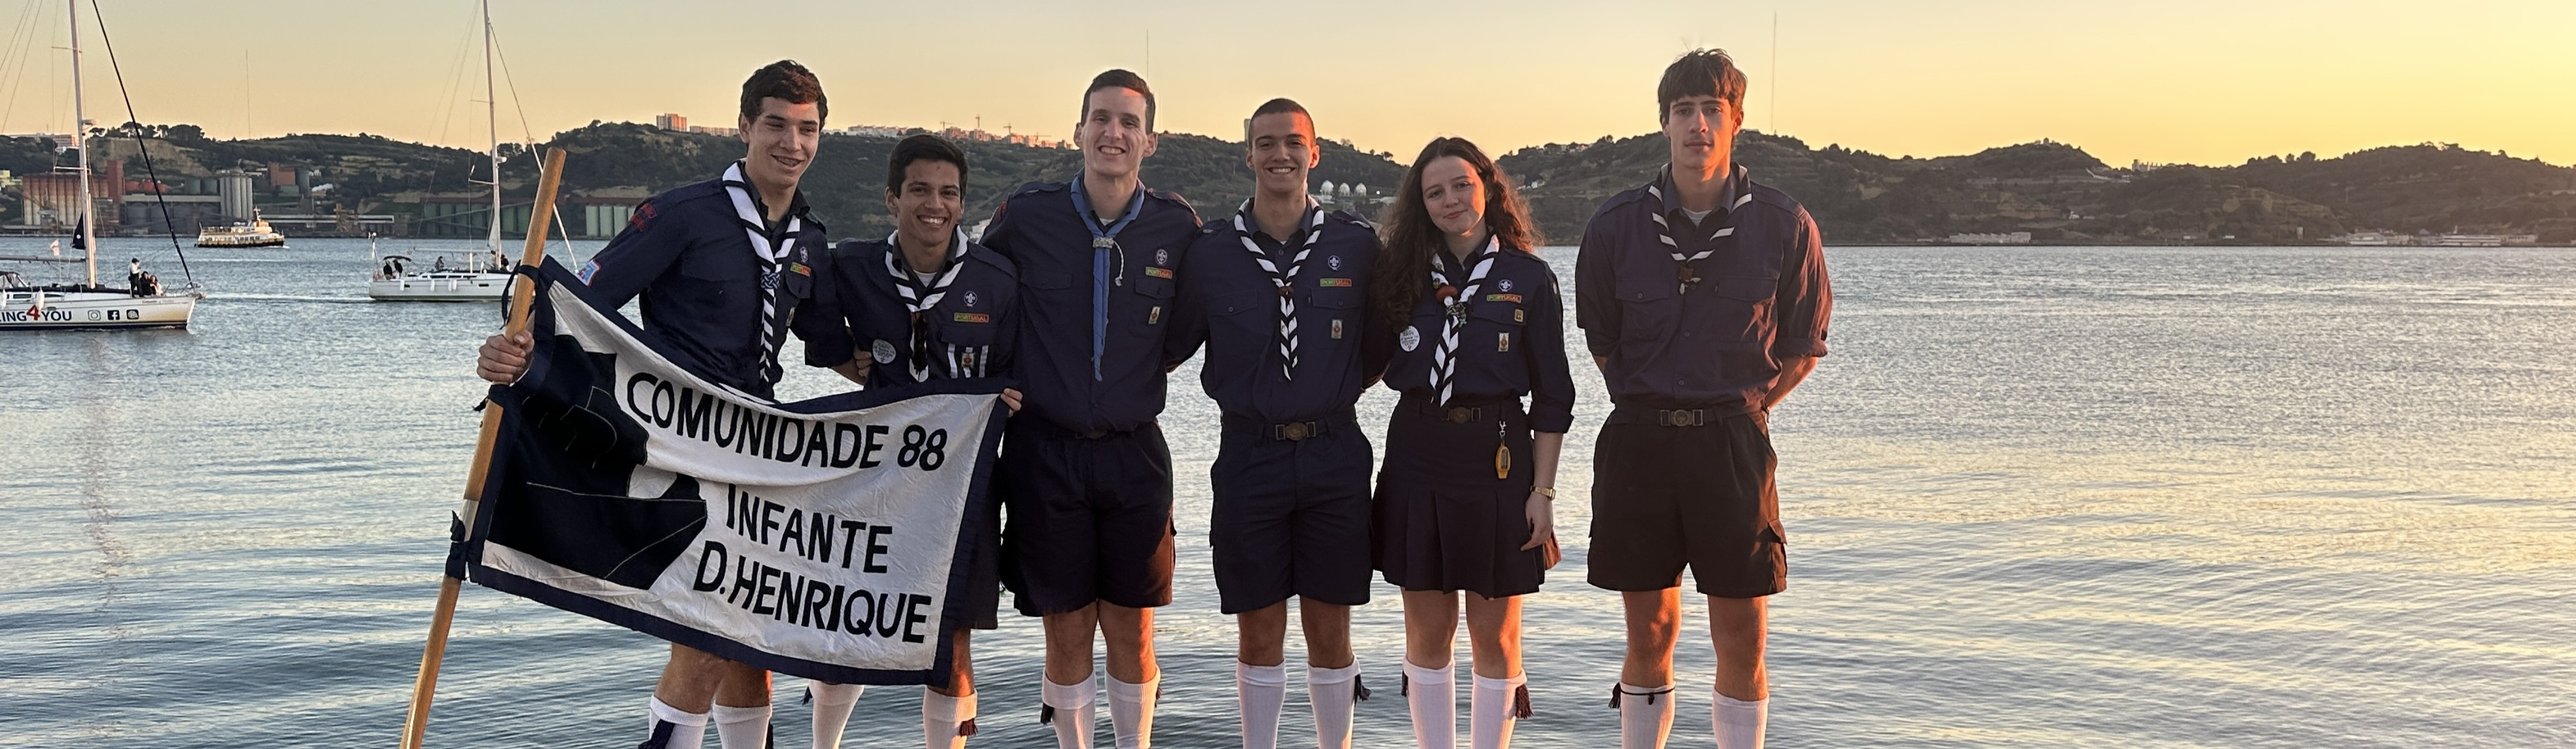
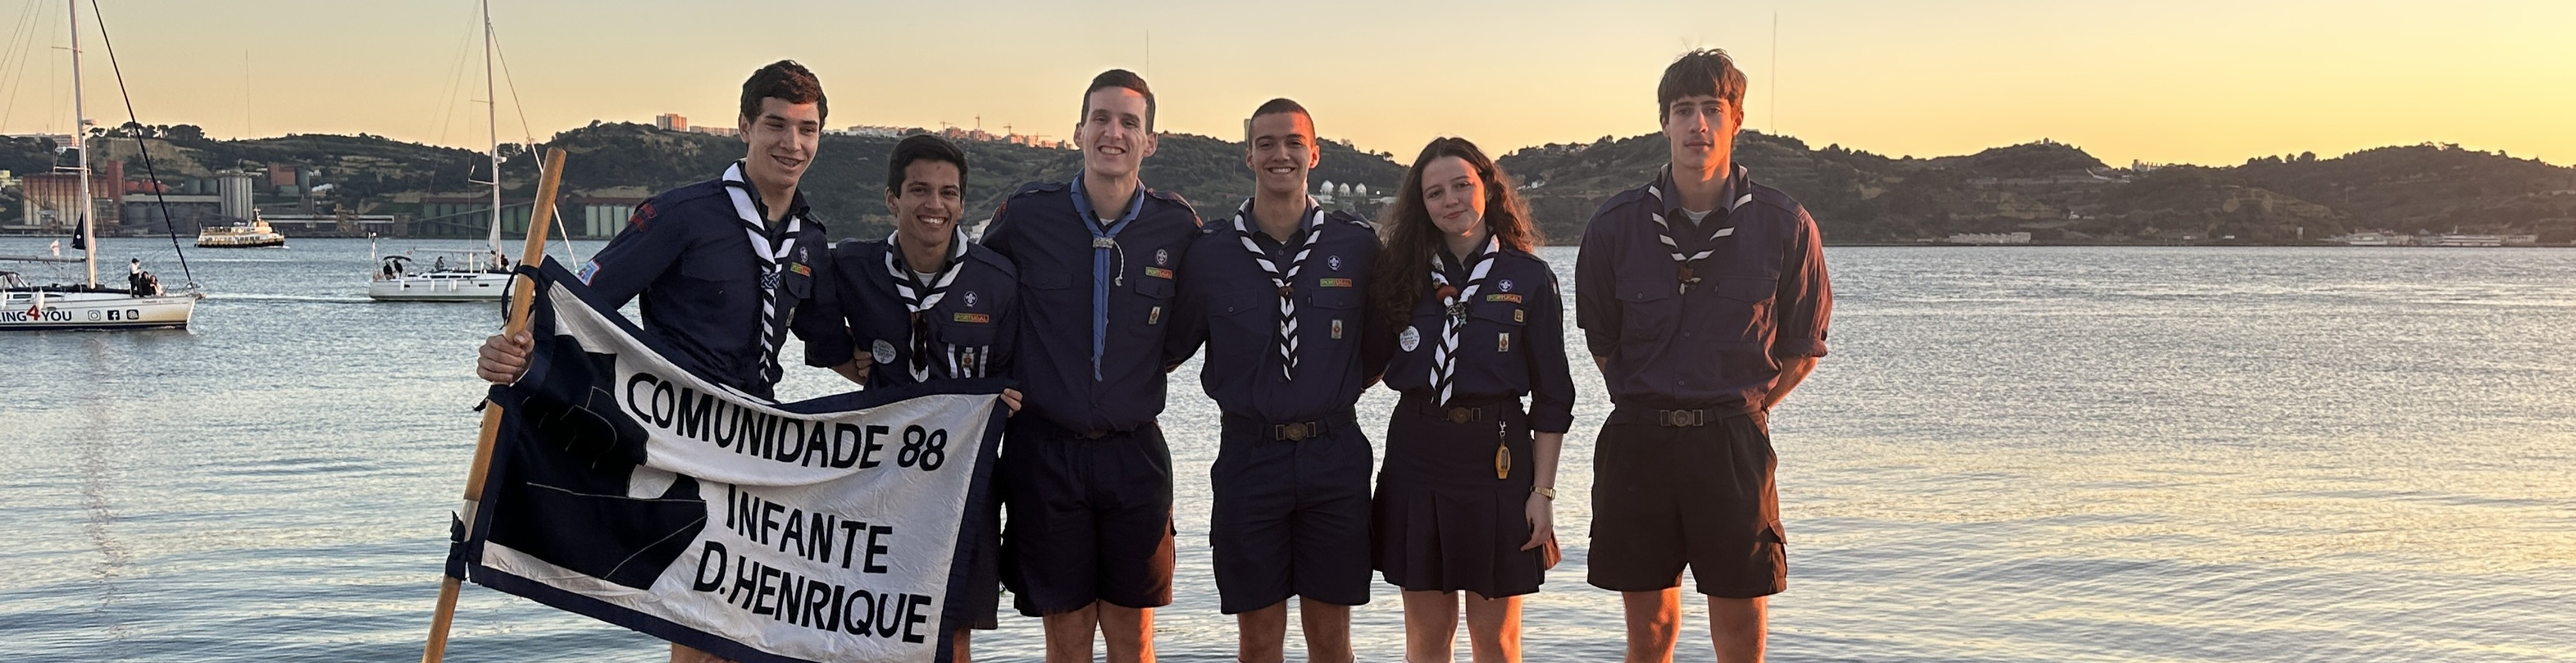
fotos e orações

diff --git a/flotilha/vivencia.md b/flotilha/vivencia.md
@@ -235,14 +235,14 @@ seccao_cor: '#6678A6'
                 <summary>🙏 Oração do Escuta</summary>
                 <div class="acordeao-content" style="text-align: center;">
                     <div style="max-width: 500px; margin: 0 auto; font-style: italic; color: #444; line-height: 1.8; font-size: 1.05rem;">
-                        <p>Senhor,<br>
+                        <p>Senhor Jesus,<br>
                         Ensinai-me a ser generoso,<br>
                         A servir-Vos como mereceis,<br>
                         A dar sem conta,<br>
-                        A combater sem medo de ser ferido,<br>
-                        A trabalhar sem descanso,<br>
-                        E a não buscar outra recompensa<br>
-                        Senão a de saber que faço a Vossa santa vontade.</p>
+                        A combater sem cuidar das feridas,<br>
+                        A trabalhar sem procurar descanso,<br>
+                        A gastar-me sem esperar outra recompensa,<br>
+                        Senão saber que faço a Vossa vontade santa.</p>
 
                         <p><strong>Ámen.</strong></p>
                     </div>

diff --git a/frota/vivencia.md b/frota/vivencia.md
@@ -237,14 +237,14 @@ seccao_cor: '#39374C'
                 <summary>🙏 Oração do Escuta</summary>
                 <div class="acordeao-content" style="text-align: center;">
                     <div style="max-width: 500px; margin: 0 auto; font-style: italic; color: #444; line-height: 1.8; font-size: 1.05rem;">
-                        <p>Senhor,<br>
+                        <p>Senhor Jesus,<br>
                         Ensinai-me a ser generoso,<br>
                         A servir-Vos como mereceis,<br>
                         A dar sem conta,<br>
-                        A combater sem medo de ser ferido,<br>
-                        A trabalhar sem descanso,<br>
-                        E a não buscar outra recompensa<br>
-                        Senão a de saber que faço a Vossa santa vontade.</p>
+                        A combater sem cuidar das feridas,<br>
+                        A trabalhar sem procurar descanso,<br>
+                        A gastar-me sem esperar outra recompensa,<br>
+                        Senão saber que faço a Vossa vontade santa.</p>
 
                         <p><strong>Ámen.</strong></p>
                     </div>

diff --git a/alcateia/vivencia.md b/alcateia/vivencia.md
@@ -272,9 +272,12 @@ seccao_cor_texto: '#17202A'
                     <div style="max-width: 500px; margin: 0 auto; font-style: italic; color: #444; line-height: 1.8; font-size: 1.05rem;">
                         <p>Divino Menino Jesus,<br>
                         nós Vos oferecemos inteiramente o nosso coração.<br>
-                        Enchei-o das Vossas virtudes e ensinai-nos a imitar-Vos.<br>
-                        Nós queremos seguir o Vosso exemplo, com toda a nossa boa vontade,<br>
-                        para assim, com a ajuda de Maria, nossa doce Mãe,<br>
+                        Enchei-o das Vossas virtudes<br>
+                        e ensinai-nos a imitar-Vos.<br>
+                        Nós queremos seguir o Vosso exemplo,<br>
+                        com toda a nossa boa vontade,<br>
+                        para assim, com a ajuda de Maria,<br>
+                        nossa doce Mãe,<br>
                         crescermos em graça e em idade.</p>
 
                         <p><strong>Ámen.</strong></p>
